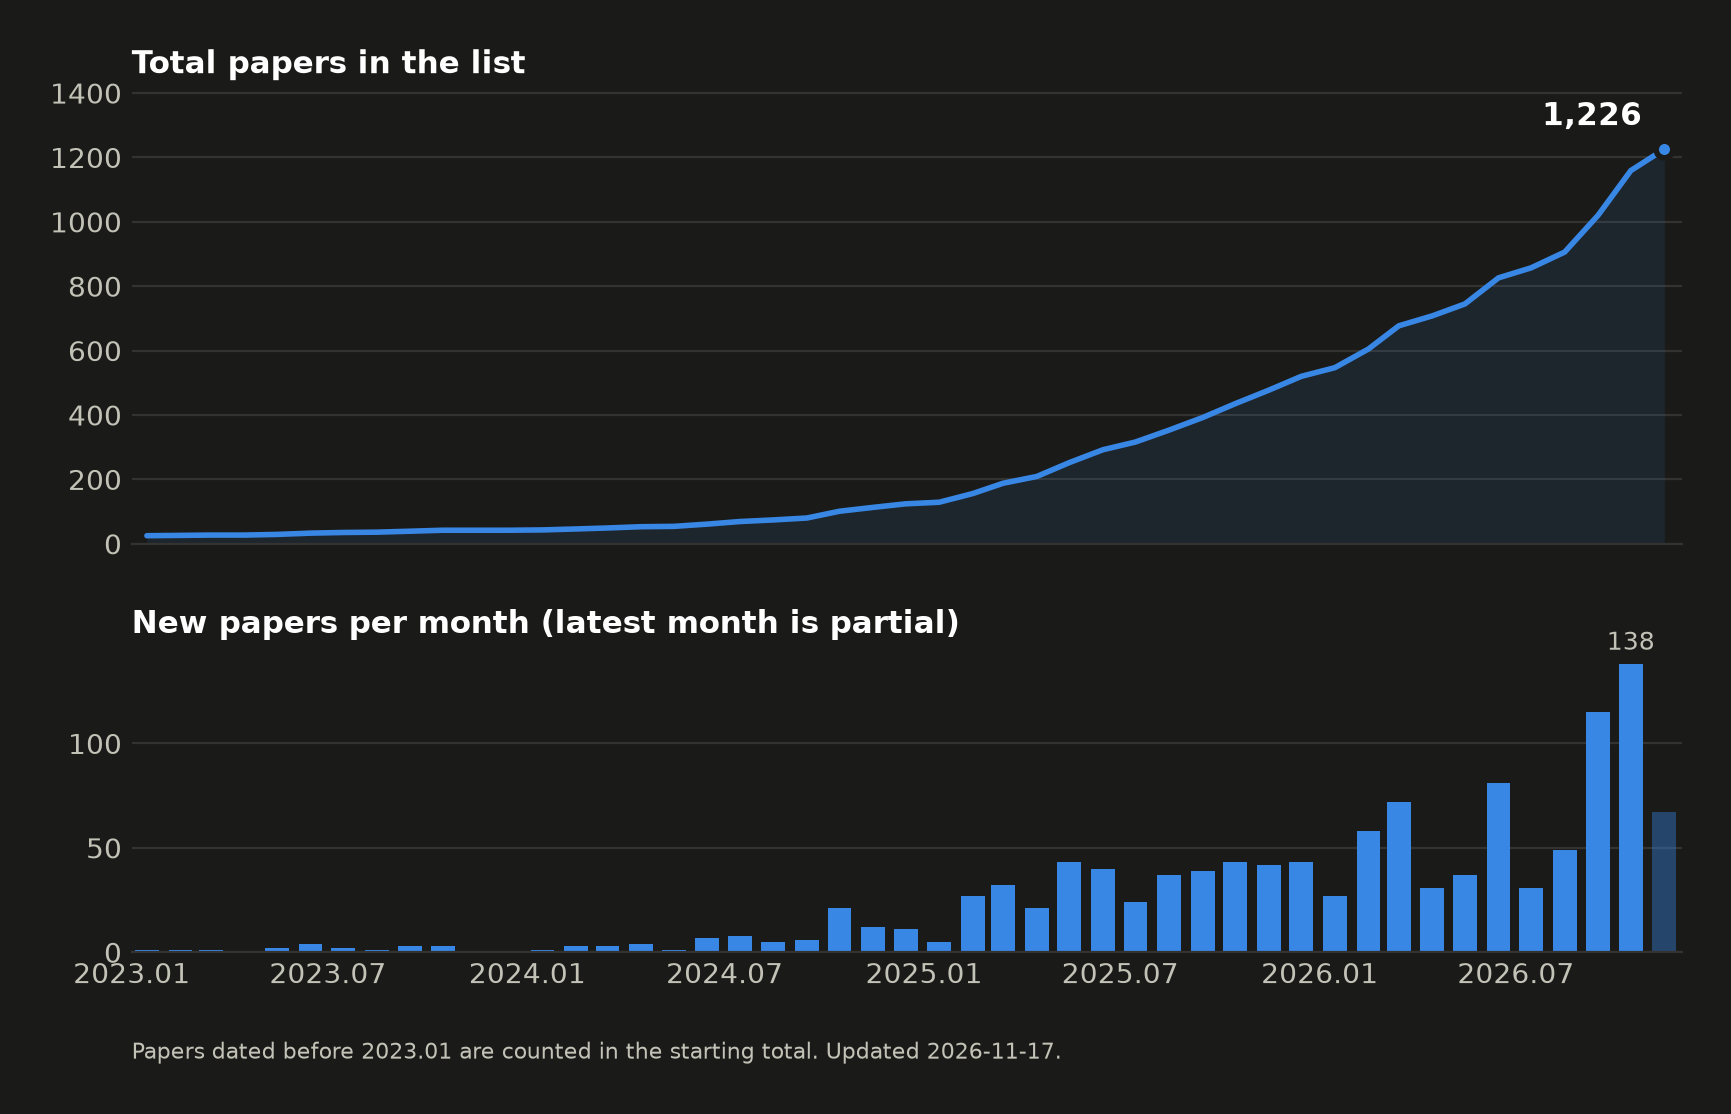
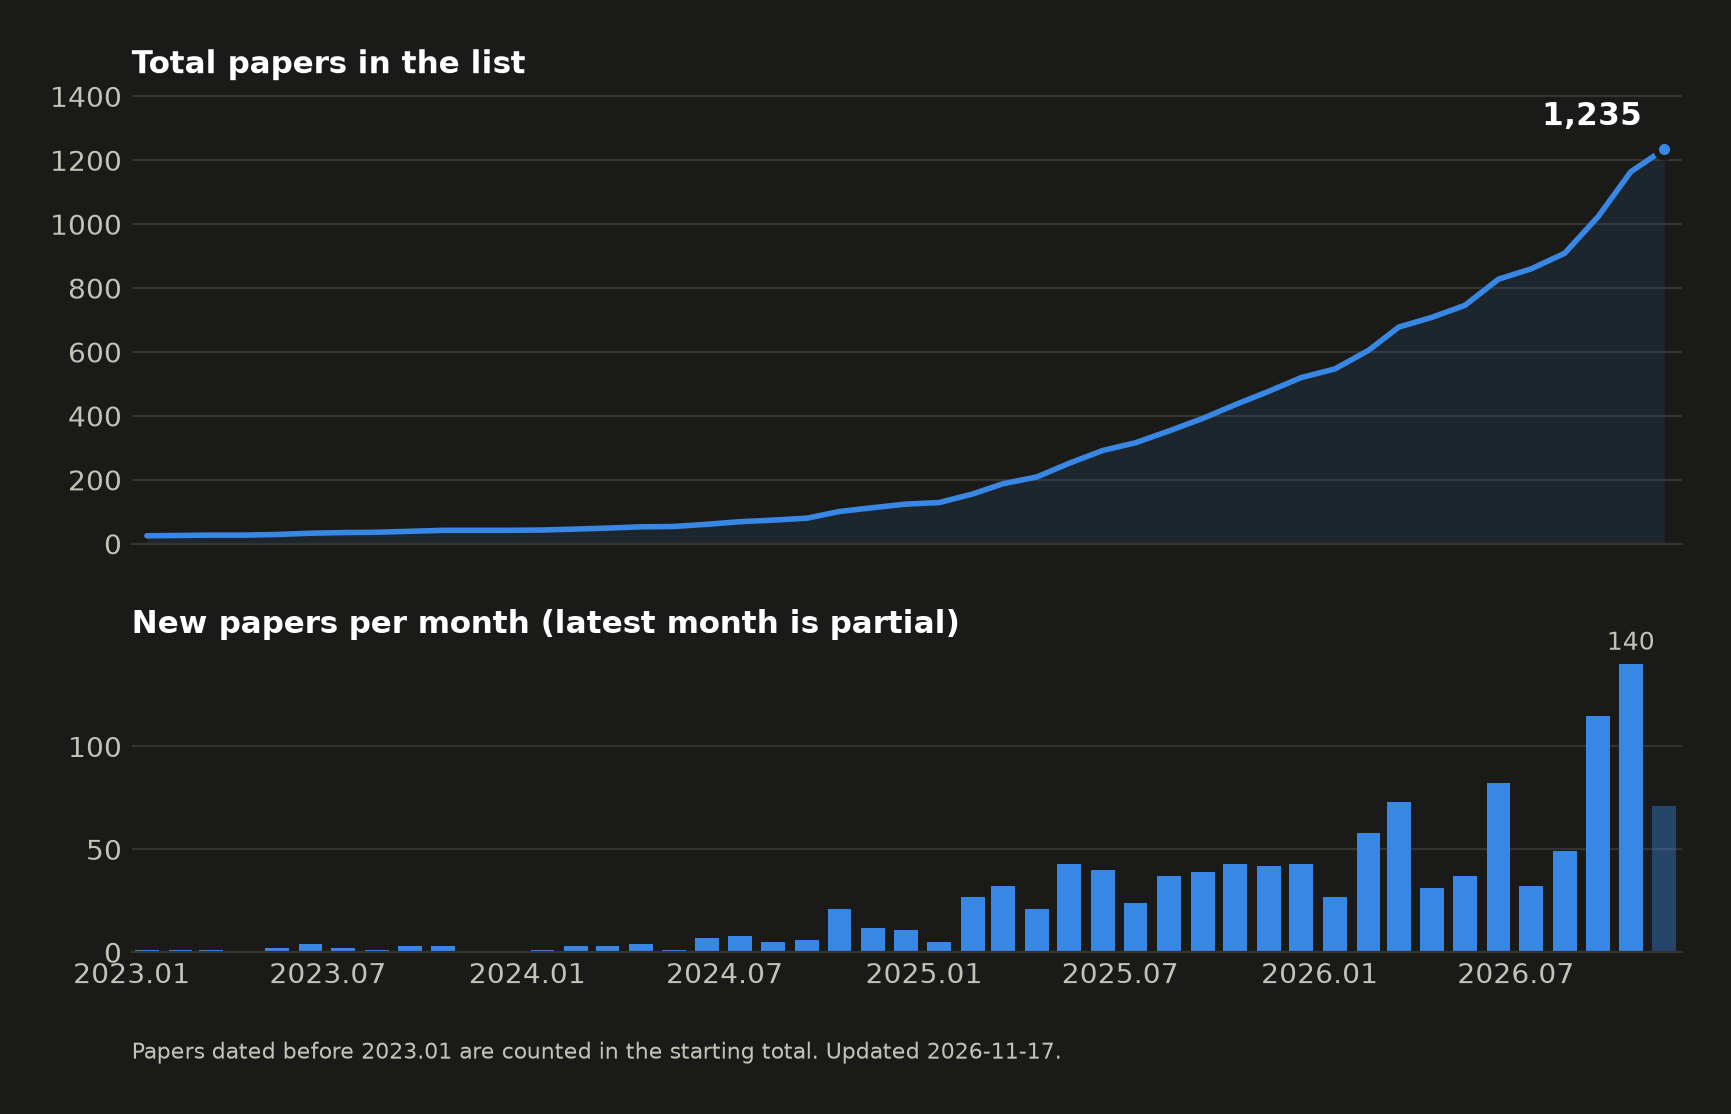
Add 9 papers from CoRL 2026 audit

diff --git a/README.md b/README.md
@@ -28,6 +28,9 @@ Feel free to pull a request for new papers/codes about humanoid robot learning.
 ---
 
 ## Loco-Manipulation and Whole-Body-Control
+- [CoRL 2026.11](https://openreview.net/forum?id=93leGzRaPV), InfiniDanceRobot: A Streaming and Closed-Loop Music-driven Dance Generation for Humanoid Robot
+- [CoRL 2026.11](https://openreview.net/forum?id=qF26obIUEX), EVOLVE: Egocentric Vision-based Humanoid Loco-Manipulation via Demonstration Editing
+- [CoRL 2026.11](https://openreview.net/forum?id=wALhOwQWnx), Learning Functional Compliance in Whole-body Manipulation
 - [arXiv 2026.11.16](https://arxiv.org/abs/2611.20791), QTOP: Scaling Humanoid Motion Tracking with Quantile Critics
 - [arXiv 2026.11.16](https://arxiv.org/abs/2611.20452), XMimic and XSoma: Learning Humanoid Motion Tracking and Locomotion in Under a Minute
 - [arXiv 2026.11.14](https://arxiv.org/abs/2611.19196), Ego2Sim2Humanoid: Agentic Real-to-Sim for Learning Loco-Manipulation VLAs without Robot Demonstrations, [website](https://robonana.github.io/ego2sim2humanoid/)
@@ -581,6 +584,7 @@ Feel free to pull a request for new papers/codes about humanoid robot learning.
 - [arXiv 2026.07](https://arxiv.org/abs/2607.08857), AgenticFocus: Object-Preserving Mixed Reality Synthesis from Human FPV Video for Dexterous Humanoid Learning
 - [arXiv 2026.06](https://arxiv.org/abs/2606.32009), Human-as-Humanoid: Enabling Zero-Shot Humanoid Learning from Ego-Exo Human Videos with Human-Aligned Embodiments, [website](https://zgc-embodyai.github.io/Human-as-Humanoid)
 - [arXiv 2026.06](https://arxiv.org/abs/2606.31836), RoboTacDex: A Dexterous Visual-Tactile-Action Dataset for Humanoid Manipulation
+- [arXiv 2026.06.27](https://arxiv.org/abs/2606.28813), Human2Any: Human-to-Robot Transfer via Constraint-Aware Compositional Planning, [CoRL 2026](https://openreview.net/forum?id=h1yqzSoZ49), [website](https://human2any.github.io/)
 - [arXiv 2026.06](https://arxiv.org/abs/2606.17011), ROVE: Unlocking Human Interventions for Humanoid Manipulation via Reinforcement Learning
 - [arXiv 2026.06](https://arxiv.org/abs/2606.15918), Energy-Efficient Arm Reaching for a Humanoid Robot via Deep Reinforcement Learning with Identified Power Models
 - [arXiv 2026.06](https://arxiv.org/abs/2606.08152), Vision-Guided Dual-Arm Humanoid Robotic Disassembly of End-of-Life 18650 Lithium-ion Battery Packs
@@ -664,6 +668,7 @@ Feel free to pull a request for new papers/codes about humanoid robot learning.
 - [1999](https://www.cell.com/trends/cognitive-sciences/abstract/S1364-6613(99)01327-3), Is imitation learning the route to humanoid robots?
 
 ## Teleoperation
+- [CoRL 2026.11](https://openreview.net/forum?id=u2dtQWAFQo), CA-GMT: Contact-Aware Low-Rank Adaptation of Motion Tracking for Whole-Body Teleoperation
 - [arXiv 2026.11.15](https://arxiv.org/abs/2611.19998), MoViC: Real-Time Humanoid Whole-Body Control from Monocular Video Streams, [website](https://movicproject.github.io/)
 - [arXiv 2026.10](https://arxiv.org/abs/2610.29903), HuMiT: Low-Latency Whole-Body Humanoid Teleoperation via Compact Reference Tracking, [website](https://xiaohu-art.github.io/Track/)
 - [arXiv 2026.10](https://arxiv.org/abs/2610.24257), Evaluating Lightweight Contact Feedback in Dual-Operator Collaborative Humanoid Teleoperation, [website](https://xrt-teleop.github.io)
@@ -748,6 +753,7 @@ Feel free to pull a request for new papers/codes about humanoid robot learning.
 - [arXiv 2026.10](https://arxiv.org/abs/2610.29612), Watch Your Step: Anticipated Perception for Humanoid Locomotion, [website](https://leggedrobotics.github.io/watch-your-step)
 - [arXiv 2026.10](https://arxiv.org/abs/2610.25701), Validation of Human Motor Development Scales with Humanoid Robots
 - [CoRL 2026](https://arxiv.org/abs/2610.14840), Push the Limit: Learning High-Speed Sprinting and Aggressive Cornering on a Full-Scale Humanoid
+- [arXiv 2026.10.10](https://arxiv.org/abs/2610.14564), Chunk-wise Model-based Policy Optimization, [CoRL 2026](https://openreview.net/forum?id=dngZLI0SlV), [website](https://song-wx.github.io/cmpo.github.io/)
 - [arXiv 2026.10](https://arxiv.org/abs/2610.11505), DAMP: Humanoid Locomotion via Denoised Belief Learning and Adversarial Motion Priors
 - [arXiv 2026.10](https://arxiv.org/abs/2610.10489), HuMBLE: Human Motion-Driven Behavior Learning for Embodied Locomotion
 - [arXiv 2026.10](https://arxiv.org/abs/2610.08789), QF3: Fast Flow RL with Filtered Q-Gradients, [website](https://qf3-rl.github.io/)
@@ -787,6 +793,7 @@ Feel free to pull a request for new papers/codes about humanoid robot learning.
 - [arXiv 2026.08](https://arxiv.org/abs/2608.02653), Light-Loco-Parkour: Versatile Perceptive Whole-Body Locomotion via Multi-Skill Distillation, [website](https://light-loco-parkour.github.io/)
 - 🌟[arXiv 2026.07](https://arxiv.org/abs/2607.25541), P3: Probabilistic Policy Propagation for Stable VAE-Based Robot Learning
 - [arXiv 2026.07](https://arxiv.org/abs/2607.24083), Learning Reusable Hybrid Motion Priors for Humanoid Locomotion from Motion Imitation
+- [arXiv 2026.07.26](https://arxiv.org/abs/2607.23473), PRISM: Polynomial Representations for Interaction-Structured Motor Control, [CoRL 2026](https://openreview.net/forum?id=rQZHMVTYYy), [website](https://lsh3163.github.io/prism/)
 - [arXiv 2026.07](https://arxiv.org/abs/2607.18760), Koopman DCM: Unstable Eigenfunctions as Data-driven Representations for Legged Balancing
 - [arXiv 2026.07](https://arxiv.org/abs/2607.12114), GaitSpan: Growing Humanoid Locomotion from Walking to Running, [website](https://gaitspan2026.github.io/)
 - [CLAWAR 2026](https://arxiv.org/abs/2607.10815), Learning Roller-Skating Motions of Humanoid Robots Based on Adversarial Motion Priors
@@ -1147,6 +1154,7 @@ Feel free to pull a request for new papers/codes about humanoid robot learning.
 - [arXiv 2026.06](https://arxiv.org/abs/2606.17833), HumanoidArena: Benchmarking Egocentric Hierarchical Whole-body Learning
 - [arXiv 2026.06](https://arxiv.org/abs/2606.08278), SIMPLE: Simulation-Based Policy Learning and Evaluation for Humanoid Loco-manipulation
 - 🌟[arXiv 2026.05](https://arxiv.org/abs/2605.07943), TAVIS: A Benchmark for Egocentric Active Vision and Anticipatory Gaze in Imitation Learning, [website](https://tavis-bench.github.io)
+- [arXiv 2026.03.17](https://arxiv.org/abs/2603.16536), Kamino: GPU-based Simulation of Rigid Multi-Body Physics with Kinematic Loops, [CoRL 2026](https://openreview.net/forum?id=aKjXDWnmzc)
 - [arXiv 2026.03](https://arxiv.org/abs/2603.12185), ComFree-Sim: A GPU-Parallelized Analytical Contact Physics Engine for Scalable Contact-Rich Robotics Simulation and Control, [website](https://irislab.tech/comfree-sim/)
 - [arXiv 2026.03](https://arxiv.org/abs/2603.06181), Towards Motion Turing Test: Evaluating Human-Likeness in Humanoid Robots
 - [ICLR 2026](https://openreview.net/forum?id=tQJYKwc3n4), RoboCasa365: A Large-Scale Simulation Framework for Training and Benchmarking Generalist Robots
@@ -1266,6 +1274,7 @@ Feel free to pull a request for new papers/codes about humanoid robot learning.
 - [arXiv 2026.11.11](https://arxiv.org/abs/2611.15101), CFGComposer: Compositional Audio-Text-to-Motion Generation via Copula Score Correction
 - [arXiv 2026.10](https://arxiv.org/abs/2610.30500), PhysibleMDM: Enforcing Inference-Time Physical Feasibility Constraints on Motion Diffusion Models via Noise Optimization
 - [arXiv 2026.10](https://arxiv.org/abs/2610.21515), TRACE: Typed Reference-Aware Conversational Editing for Humanoid Motion Diffusion
+- [arXiv 2026.10.14](https://arxiv.org/abs/2610.19635), Eye, Robot: Learning Expressive Gaze Dynamics via a VLM-Guided Transformer-VAE, [CoRL 2026](https://openreview.net/forum?id=aILPNAxgHb)
 - [arXiv 2026.10](https://arxiv.org/abs/2610.13373), PartiGen: Part-Aware Representations for Language-Conditioned Humanoid Motion Generation
 - [arXiv 2026.10](https://arxiv.org/abs/2610.03873), Streaming Multi-Track Timeline Control for 3D Human Motion Generation, [website](https://mael-zys.github.io/TimelineControl/)
 - [SIGGRAPH Asia 2026](https://arxiv.org/abs/2609.10982), ReCHOIR: Contact-guided Human Object Interaction Retargeting to Diverse Characters, [website](https://cherry-leki.github.io/projects/ReCHOIR/)
